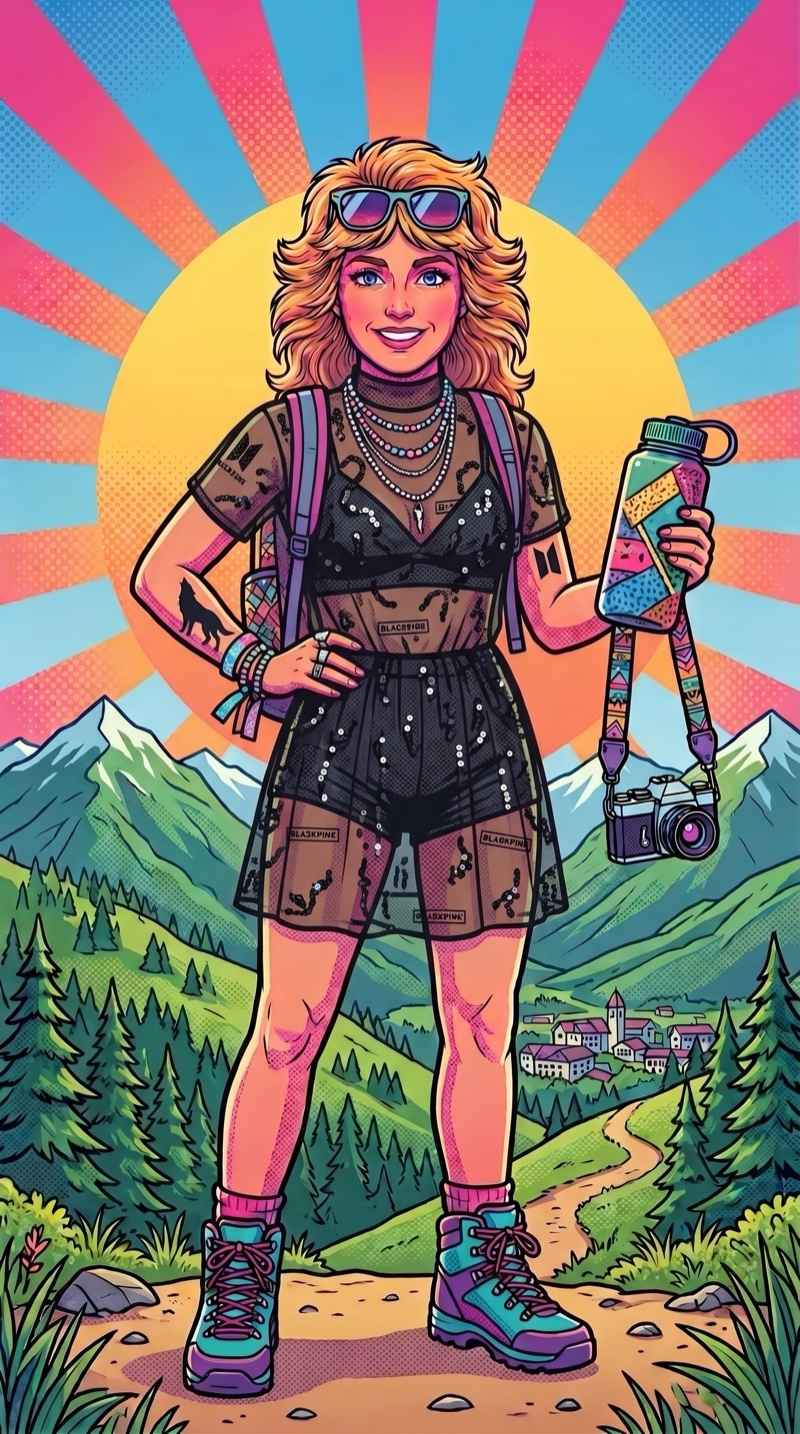
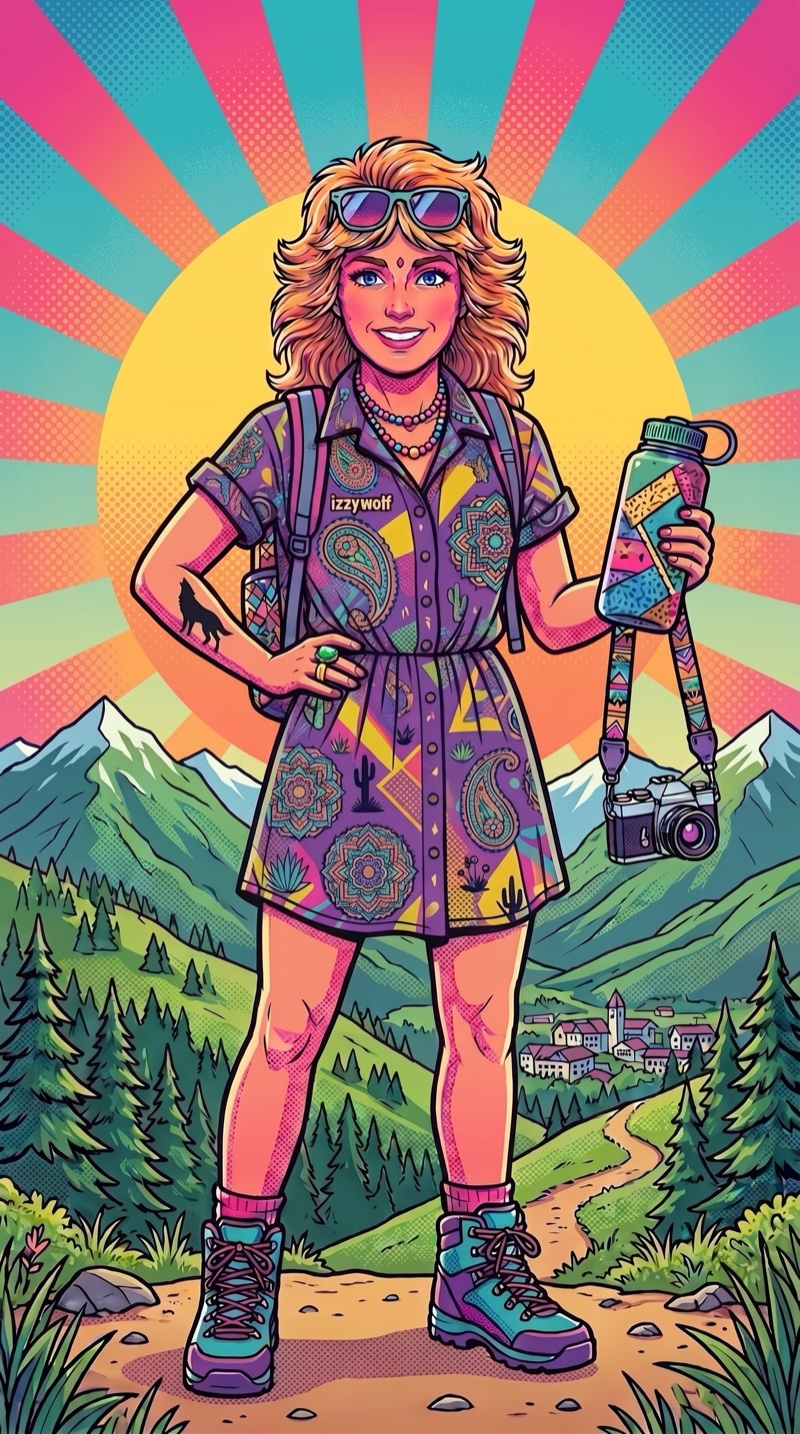
Hero: use izzy-main-female-sun1 art for the Sun phone; IKON and EPIC in white
- assets/izzy-hiker-sun.jpg now resampled from SkiBuddyGemini/assets/images/izzy-main-female-sun1.jpeg
  (the paisley shirt-dress hiker with the camera) — founder correction, the first cut used a different file.
- h1: <span class="w-pass"> around IKON and EPIC renders white inside the blue em so the pass names stand out.

diff --git a/index.html b/index.html
@@ -71,7 +71,7 @@
     <div class="wrap">
       <div class="hero-copy">
         <p class="eyebrow">Izzy — <span class="w-snow">Snow</span> and <span class="w-sun">Sun</span></p>
-        <h1>Welcome to Izzy, <em>a voice-first AI companion for all IKON and EPIC resorts.</em></h1>
+        <h1>Welcome to Izzy, <em>a voice-first AI companion for all <span class="w-pass">IKON</span> and <span class="w-pass">EPIC</span> resorts.</em></h1>
         <p class="hero-sub">Izzy knows the mountain with your safety always in mind — and Izzy rides it <b>year-round</b>.</p>
         <p class="lede">A warm, knowledgeable skibud that rides with you all day — real-time conditions, trail, lift and resort answers, a camera lens Izzy can see through, social connections and safety SOS. Hands-free, gloves on, eyes on the run. Built for families, spreading the love with others. And when the lifts stop turning, Izzy Sun takes over at the same mountains.</p>
 

diff --git a/styles.css b/styles.css
@@ -1267,6 +1267,8 @@ p { margin: 0; text-wrap: pretty; }
 /* hero eyebrow "Izzy — Snow and Sun": Snow reads white, Sun reads in the sun accent */
 .eyebrow .w-snow { color: var(--white); }
 .eyebrow .w-sun  { color: var(--sun); }
+/* hero h1: pass names read white inside the blue em */
+.hero h1 em .w-pass { color: var(--white); }
 
 .new-pill {
   display: inline-block;
